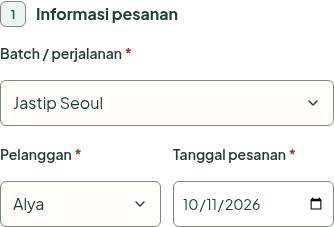
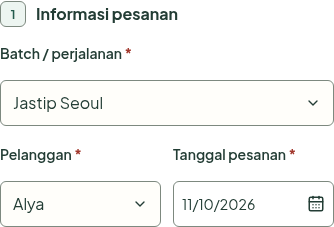
Add clear order placeholders and calendar-only date selection

Changed region(s): [[0.5389, 0.8634, 0.7784, 0.9559], [0.8982, 0.8634, 0.988, 0.9559]]

diff --git a/src/components/order-form.tsx b/src/components/order-form.tsx
@@ -1,6 +1,7 @@
 "use client";
 
 import { NumberInput } from "@/components/ui/number-input";
+import { DatePicker } from "@/components/ui/date-picker";
 import { OrderDiscountFields } from "@/components/order-discount-fields";
 
 import { useEffect, useMemo, useRef, useState } from "react";
@@ -258,7 +259,7 @@ export function OrderForm({ data, order, defaultBatchId, onSave, onClose, saveEr
       <label className="field-label" htmlFor={id}>{label}{["product", "quantity", "unitPrice"].includes(name) && <span className="required-mark" aria-hidden="true"> *</span>}</label>
       <div style={{ position: "relative" }}>
         {isAmount && <span aria-hidden="true" style={{ position: "absolute", left: 12, top: "50%", transform: "translateY(-50%)", color: "var(--muted)", fontSize: 13 }}>Rp</span>}
-        {numeric ? <NumberInput aria-label={label} required={["product", "quantity", "unitPrice"].includes(name)} id={id} name={`item-${item.id}-${name}`} className="input" inputMode={numeric ? "numeric" : undefined} min={numeric ? name === "quantity" ? "1" : "0" : undefined} step={numeric ? "1" : undefined} maxLength={!numeric ? itemTextLimits[name as keyof typeof itemTextLimits] : undefined} style={isAmount ? { paddingLeft: 37 } : undefined} value={item[name]} placeholder={name === "unitCost" ? "Belum diketahui" : "0"} onValueChange={(value) => updateItem(item.id, name, value)} aria-invalid={Boolean(error)} aria-describedby={error ? `${id}-error` : hint ? `${id}-hint` : undefined} /> : <input aria-label={label} required={["product", "quantity", "unitPrice"].includes(name)} id={id} name={`item-${item.id}-${name}`} className="input" ref={index === 0 && name === "product" ? productRef : undefined} type="text" inputMode={numeric ? "numeric" : undefined} min={numeric ? name === "quantity" ? "1" : "0" : undefined} step={numeric ? "1" : undefined} maxLength={!numeric ? itemTextLimits[name as keyof typeof itemTextLimits] : undefined} style={isAmount ? { paddingLeft: 37 } : undefined} value={item[name]} placeholder={name === "product" ? "Contoh: Airism Oversized / Nasi ayam"  : name === "variant" ? "Contoh: original / pedas" : name === "color" ? "Contoh: navy" : name === "size" ? "Contoh: M / porsi besar" : "0"} onChange={(event) => updateItem(item.id, name, event.target.value)} aria-invalid={Boolean(error)} aria-describedby={error ? `${id}-error` : hint ? `${id}-hint` : undefined} />}
+        {numeric ? <NumberInput aria-label={label} required={["product", "quantity", "unitPrice"].includes(name)} id={id} name={`item-${item.id}-${name}`} className="input" inputMode={numeric ? "numeric" : undefined} min={numeric ? name === "quantity" ? "1" : "0" : undefined} step={numeric ? "1" : undefined} maxLength={!numeric ? itemTextLimits[name as keyof typeof itemTextLimits] : undefined} style={isAmount ? { paddingLeft: 37 } : undefined} value={item[name]} placeholder={name === "quantity" ? "Contoh: 2" : name === "unitCost" ? "Belum diketahui" : "0"} onValueChange={(value) => updateItem(item.id, name, value)} aria-invalid={Boolean(error)} aria-describedby={error ? `${id}-error` : hint ? `${id}-hint` : undefined} /> : <input aria-label={label} required={["product", "quantity", "unitPrice"].includes(name)} id={id} name={`item-${item.id}-${name}`} className="input" ref={index === 0 && name === "product" ? productRef : undefined} type="text" inputMode={numeric ? "numeric" : undefined} min={numeric ? name === "quantity" ? "1" : "0" : undefined} step={numeric ? "1" : undefined} maxLength={!numeric ? itemTextLimits[name as keyof typeof itemTextLimits] : undefined} style={isAmount ? { paddingLeft: 37 } : undefined} value={item[name]} placeholder={name === "product" ? "Contoh: Airism Oversized / Nasi ayam"  : name === "variant" ? "Contoh: original / pedas" : name === "color" ? "Contoh: navy" : name === "size" ? "Contoh: M / porsi besar" : "0"} onChange={(event) => updateItem(item.id, name, event.target.value)} aria-invalid={Boolean(error)} aria-describedby={error ? `${id}-error` : hint ? `${id}-hint` : undefined} />}
       </div>
       {error ? <span className="error-message" id={`${id}-error`}>{error}</span> : hint ? <span className="field-hint" id={`${id}-hint`}>{hint}</span> : null}
     </div>;
@@ -289,11 +290,11 @@ export function OrderForm({ data, order, defaultBatchId, onSave, onClose, saveEr
               </Select>
               {errors.customerId && <span id="error-customerId" className="error-message">{errors.customerId}</span>}
             </div>
-              <div className="field"><label className="field-label" htmlFor="order-date">Tanggal pesanan<span className="required-mark" aria-hidden="true"> *</span></label><input aria-label="Tanggal pesanan" required id="order-date" name="date" className="input" type="date" value={fields.date} onChange={(event) => update("date", event.target.value)} aria-invalid={Boolean(errors.date)} aria-describedby={errors.date ? "error-date" : undefined} />{errors.date && <span id="error-date" className="error-message">{errors.date}</span>}</div>
+              <div className="field"><label className="field-label" htmlFor="order-date">Tanggal pesanan<span className="required-mark" aria-hidden="true"> *</span></label><DatePicker aria-label="Tanggal pesanan" required id="order-date" name="date" value={fields.date} onValueChange={value => update("date", value)} aria-invalid={Boolean(errors.date)} aria-describedby={errors.date ? "error-date" : undefined} />{errors.date && <span id="error-date" className="error-message">{errors.date}</span>}</div>
             {fields.customerId === "new" && <>
               <div className="field"><label className="field-label" htmlFor="order-customerName">Nama pelanggan<span className="required-mark" aria-hidden="true"> *</span></label><input aria-label="Nama pelanggan" required id="order-customerName" name="customerName" className="input" maxLength={textLimits.customerName} value={fields.customerName} placeholder="Contoh: Alya Putri" autoComplete="name" onChange={(event) => update("customerName", event.target.value)} aria-invalid={Boolean(errors.customerName)} aria-describedby={errors.customerName ? "error-customerName" : undefined} />{errors.customerName && <span id="error-customerName" className="error-message">{errors.customerName}</span>}</div>
               <div className="field"><label className="field-label" htmlFor="order-customerPhone">WhatsApp <span className="muted">(opsional)</span></label><input id="order-customerPhone" name="customerPhone" className="input" type="tel" maxLength={textLimits.customerPhone} value={fields.customerPhone} placeholder="08xxxxxxxxxx" autoComplete="tel" onChange={(event) => update("customerPhone", event.target.value)} aria-invalid={Boolean(errors.customerPhone)} aria-describedby={errors.customerPhone ? "error-customerPhone" : undefined} />{errors.customerPhone && <span id="error-customerPhone" className="error-message">{errors.customerPhone}</span>}</div>
-              <div className="field"><label className="field-label" htmlFor="order-customerAddress">Alamat (opsional)</label><textarea id="order-customerAddress" name="customerAddress" className="input" rows={3} maxLength={textLimits.customerAddress} autoComplete="street-address" value={fields.customerAddress} onChange={(event) => update("customerAddress", event.target.value)} /></div>
+              <div className="field"><label className="field-label" htmlFor="order-customerAddress">Alamat (opsional)</label><textarea id="order-customerAddress" name="customerAddress" className="input" rows={3} placeholder="Alamat lengkap pelanggan" maxLength={textLimits.customerAddress} autoComplete="street-address" value={fields.customerAddress} onChange={(event) => update("customerAddress", event.target.value)} /></div>
             </>}
           </div></section>
           <div className="form-section order-section">

diff --git a/src/components/po-order-form.tsx b/src/components/po-order-form.tsx
@@ -1,6 +1,7 @@
 "use client";
 
 import { NumberInput } from "@/components/ui/number-input";
+import { DatePicker } from "@/components/ui/date-picker";
 import { OrderDiscountFields } from "@/components/order-discount-fields";
 
 import { useEffect, useMemo, useRef, useState } from "react";
@@ -265,11 +266,11 @@ export function PoOrderForm({ data, order, onSave, onClose, saveError, saving }:
               </Select>
               {errors.customerId && <span id="po-error-customerId" className="error-message">{errors.customerId}</span>}
             </div>
-            <div className="field"><label className="field-label" htmlFor="po-order-date">Tanggal pesanan<span className="required-mark" aria-hidden="true"> *</span></label><input aria-label="Tanggal pesanan" required id="po-order-date" name="date" className="input" type="date" value={fields.date} onChange={(event) => update("date", event.target.value)} aria-invalid={Boolean(errors.date)} aria-describedby={errors.date ? "po-error-date" : undefined} />{errors.date && <span id="po-error-date" className="error-message">{errors.date}</span>}</div>
+            <div className="field"><label className="field-label" htmlFor="po-order-date">Tanggal pesanan<span className="required-mark" aria-hidden="true"> *</span></label><DatePicker aria-label="Tanggal pesanan" required id="po-order-date" name="date" value={fields.date} onValueChange={value => update("date", value)} aria-invalid={Boolean(errors.date)} aria-describedby={errors.date ? "po-error-date" : undefined} />{errors.date && <span id="po-error-date" className="error-message">{errors.date}</span>}</div>
             {fields.customerId === "new" && <>
               <div className="field"><label className="field-label" htmlFor="po-order-customerName">Nama pelanggan<span className="required-mark" aria-hidden="true"> *</span></label><input aria-label="Nama pelanggan" required id="po-order-customerName" name="customerName" className="input" value={fields.customerName} maxLength={textLimits.customerName} autoComplete="name" placeholder="Contoh: Alya Putri" onChange={(event) => update("customerName", event.target.value)} aria-invalid={Boolean(errors.customerName)} aria-describedby={errors.customerName ? "po-error-customerName" : undefined} />{errors.customerName && <span id="po-error-customerName" className="error-message">{errors.customerName}</span>}</div>
               <div className="field"><label className="field-label" htmlFor="po-order-customerPhone">WhatsApp <span>(opsional)</span></label><input id="po-order-customerPhone" name="customerPhone" className="input" type="tel" value={fields.customerPhone} maxLength={textLimits.customerPhone} autoComplete="tel" placeholder="08xxxxxxxxxx" onChange={(event) => update("customerPhone", event.target.value)} aria-invalid={Boolean(errors.customerPhone)} aria-describedby={errors.customerPhone ? "po-error-customerPhone" : undefined} />{errors.customerPhone && <span id="po-error-customerPhone" className="error-message">{errors.customerPhone}</span>}</div>
-              <div className="field"><label className="field-label" htmlFor="po-order-customerAddress">Alamat (opsional)</label><textarea id="po-order-customerAddress" name="customerAddress" className="input" rows={3} maxLength={textLimits.customerAddress} autoComplete="street-address" value={fields.customerAddress} onChange={(event) => update("customerAddress", event.target.value)} /></div>
+              <div className="field"><label className="field-label" htmlFor="po-order-customerAddress">Alamat (opsional)</label><textarea id="po-order-customerAddress" name="customerAddress" className="input" rows={3} placeholder="Alamat lengkap pelanggan" maxLength={textLimits.customerAddress} autoComplete="street-address" value={fields.customerAddress} onChange={(event) => update("customerAddress", event.target.value)} /></div>
             </>}
           </div></section>
           <div className="form-section order-section">
@@ -302,7 +303,7 @@ export function PoOrderForm({ data, order, onSave, onClose, saveError, saving }:
                   </div>
                   <div className="field">
                     <label className="field-label" htmlFor={quantityId}>Jumlah barang<span className="required-mark" aria-hidden="true"> *</span></label>
-                    <NumberInput aria-label="Jumlah barang" required id={quantityId} name={`item-${item.id}-quantity`} className="input" inputMode="numeric" min="1" step="1" value={item.quantity} onValueChange={(value) => updateItem(item.id, "quantity", value)} aria-invalid={Boolean(rowErrors?.quantity)} aria-describedby={rowErrors?.quantity ? `${quantityId}-error` : undefined} />
+                    <NumberInput aria-label="Jumlah barang" required id={quantityId} name={`item-${item.id}-quantity`} className="input" inputMode="numeric" min="1" step="1" placeholder="Contoh: 2" value={item.quantity} onValueChange={(value) => updateItem(item.id, "quantity", value)} aria-invalid={Boolean(rowErrors?.quantity)} aria-describedby={rowErrors?.quantity ? `${quantityId}-error` : undefined} />
                     {rowErrors?.quantity && <span id={`${quantityId}-error`} className="error-message">{rowErrors.quantity}</span>}
                   </div>
                     <dl id={pricesId} className="po-product-prices order-full-width" style={{ display: "grid", gridTemplateColumns: "repeat(2, minmax(0, 1fr))", gap: 12, padding: "10px 12px", borderRadius: 6 }}>

diff --git a/tests/website.spec.ts b/tests/website.spec.ts
@@ -644,6 +644,29 @@ for (const [business,width] of [["Jastip",1440],["Open PO",1440],["Jastip",390],
   await page.setViewportSize({width,height:1000}); await page.goto("/app"); await openBusiness(page,business); await openSection(page,"Pesanan");
   await page.getByRole("button",{name:business==="Jastip"?"Pesanan jastip baru":"Pesanan PO baru",exact:true}).click();
   let form=page.getByRole("dialog",{name:business==="Jastip"?"Pesanan jastip baru":"Pesanan PO baru",exact:true});
+  const date=form.locator('input[type="date"]');
+  await date.fill(""); await expect(form.locator('.date-picker-display')).toHaveText("Pilih tanggal");
+  if(width===1440) {
+    await date.click({position:{x:8,y:20}});
+    await page.keyboard.press("Escape");
+    await expect(form).toBeVisible();
+  }
+  await date.evaluate(element=>{Object.defineProperty(element,"showPicker",{value:()=>{element.setAttribute("data-picker-calls",String(Number(element.getAttribute("data-picker-calls")??0)+1));}});});
+  await date.click({position:{x:8,y:20}}); await expect(date).toHaveAttribute("data-picker-calls","1");
+  await date.press("Enter"); await expect(date).toHaveAttribute("data-picker-calls","2");
+  await date.press("Backspace"); await page.keyboard.type("20261011"); await expect(date).toHaveValue("");
+  await date.fill("2026-10-11"); await expect(form.locator('.date-picker-display')).toHaveText("11/10/2026");
+  await chooseOption(form.getByLabel("Pelanggan",{exact:true}),"new");
+  await expect(form.getByLabel("Alamat (opsional)",{exact:true})).toHaveAttribute("placeholder","Alamat lengkap pelanggan");
+  await expect(form.getByLabel("Jumlah barang",{exact:true})).toHaveAttribute("placeholder","Contoh: 2");
+  if(width<600) {
+    await date.fill("");
+    const placeholderFits=await form.locator('.date-picker-display > span').evaluate(element=>element.scrollWidth<=element.clientWidth+1);
+    expect(placeholderFits).toBe(true);
+    await form.locator('.order-context').screenshot({path:`docs/preview-mobile-placeholders-${business==="Jastip"?"jastip":"po"}-${width}.png`});
+    await date.fill("2026-10-11");
+  }
+  await chooseOption(form.getByLabel("Pelanggan",{exact:true}),"aly");
   if(business==="Jastip") {
     await form.getByLabel("Nama barang",{exact:true}).fill("Roti Diskon");
     await form.getByLabel("Harga jual / barang",{exact:true}).fill("25000");

diff --git a/src/app/globals.css b/src/app/globals.css
@@ -333,6 +333,15 @@ svg { flex-shrink: 0; }
 .native-dialog { border: none; border-radius: 14px; padding: 0; margin: auto; width: min(520px, calc(100vw - 32px)); max-height: calc(100dvh - 40px); box-shadow: 0 24px 75px var(--tone-line-17352824); color: var(--ink); }
 .native-dialog::backdrop { background: var(--tone-surface-18312880); }
 .native-dialog,.modal { overscroll-behavior:contain; -webkit-overflow-scrolling:touch; }
+.date-picker { position:relative; min-width:0; width:100%; }
+.date-picker-display { display:flex; align-items:center; justify-content:space-between; gap:8px; }
+.date-picker-display > span { min-width:0; overflow:hidden; white-space:nowrap; text-overflow:ellipsis; }
+.date-picker-display svg { flex-shrink:0; }
+.date-picker-empty { color:var(--muted); }
+.date-picker .date-picker-input { position:absolute; inset:0; opacity:0; cursor:pointer; width:100%; min-width:0; }
+.date-picker:focus-within .date-picker-display { outline:2px solid var(--primary); outline-offset:2px; }
+.date-picker-input::-webkit-calendar-picker-indicator { position:absolute; inset:0; width:100%; height:100%; margin:0; opacity:0; cursor:pointer; }
+@media(max-width:600px) { .order-dialog .date-picker .date-picker-display { padding-inline:8px; font-size:14px; gap:4px; } }
 .modal-header { display: flex; align-items: center; justify-content: space-between; gap: 16px; padding: 24px 26px 20px; border-bottom: 1px solid var(--border); }
 .modal-header h2 { font-size: 22px; letter-spacing: -.6px; }
 .modal-header p { font-size: 14px; line-height: 1.7; color: var(--muted); margin-top: 7px; }

diff --git a/src/components/ui/date-picker.tsx b/src/components/ui/date-picker.tsx
@@ -1,0 +1,24 @@
+"use client";
+
+import type { ComponentProps } from "react";
+import { CalendarDays } from "lucide-react";
+
+type Props = Omit<ComponentProps<"input">, "type" | "value" | "onChange" | "readOnly"> & { value: string; onValueChange: (value: string) => void };
+
+export function DatePicker({ value, onValueChange, className = "", placeholder = "Pilih tanggal", ...props }: Props) {
+  function open(input: HTMLInputElement) {
+    if (typeof input.showPicker !== "function") return false;
+    try { input.showPicker(); return true; } catch { return false; }
+  }
+  return <div className="date-picker">
+    <span className={`input date-picker-display ${!value ? "date-picker-empty" : ""}`} aria-hidden="true"><span>{value ? value.split("-").reverse().join("/") : placeholder}</span><CalendarDays size={18} /></span>
+    <input {...props} className={`input date-picker-input ${className}`} type="date" inputMode="none" value={value} placeholder={placeholder}
+      onChange={event => onValueChange(event.target.value)} onClick={event => { if (open(event.currentTarget)) event.preventDefault(); }}
+      onKeyDown={event => {
+        if (event.key === "Tab" || event.key === "Escape") return;
+        if (["Enter", " ", "ArrowDown"].includes(event.key)) { if (open(event.currentTarget)) event.preventDefault(); }
+        else event.preventDefault();
+      }}
+      onPaste={event => event.preventDefault()} onDrop={event => event.preventDefault()} />
+  </div>;
+}

diff --git a/docs/MOBILE-ORDER-FORM.md b/docs/MOBILE-ORDER-FORM.md
@@ -1,5 +1,11 @@
 # Form pesanan ponsel
 
+## Placeholder dan kalender
+
+Tanggal kosong menampilkan “Pilih tanggal”, alamat pelanggan baru “Alamat lengkap pelanggan”, dan jumlah barang “Contoh: 2”. Placeholder berlaku saat kolom kosong; nilai pesanan/default yang ada tetap ditampilkan. Kedua form memakai DatePicker dengan tampilan tanggal Indonesia dan input date native yang menutupi seluruh area kontrol. Klik area mana pun membuka showPicker; indikator native full-area menjadi fallback. Enter/Space/ArrowDown membuka kalender, sementara pengetikan manual, paste dan drop diblokir. Fokus tetap terlihat. Pemilihan tanggal memakai event change native dan menyimpan YYYY-MM-DD seperti sebelumnya.
+
+Lint dan build berhasil. Lima tes browser form Jastip/PO pada desktop dan 320/390px lulus. Tes desktop memeriksa popup kalender native saat klik sisi kiri dan menutupnya dengan Escape tanpa menutup form. Tes instrumentasi API memeriksa klik, Enter, pemblokiran pengetikan, perubahan nilai serta placeholder alamat/jumlah. Pada ponsel, placeholder tanggal tidak terpotong dan field tidak overflow. Screenshot PO 320px ditinjau visual; penyesuaian spesifisitas CSS memperbaiki ukuran placeholder awal yang terpotong. Pengujian perangkat iOS fisik belum dilakukan.
+
 Pada lebar hingga 600px, field Sudah dibayar memakai satu kolom penuh. Tombol Lunas dan Bayar sebagian bertumpuk di bawahnya, masing-masing full width. Input tanggal tetap sejajar pelanggan, dengan min-width 0, batas lebar dan padding/font lebih ringkas untuk mencegah kontrol tanggal melebar. Ringkasan form memakai satu kolom dan estimasi HPP ditempatkan sebelum total tagihan. Layout desktop dipertahankan.
 
 Validasi: lint dan production build berhasil. Lima skenario browser diskon/form berhasil: Jastip dan PO desktop, Jastip 390px, PO 390px dan PO 320px. Pada ponsel tes memeriksa lebar pembayaran/tombol, posisi tombol di bawah field, batas input tanggal, urutan visual HPP sebelum total, dan tidak ada overflow horizontal. Alur simpan, reload, edit, pembatasan diskon dan pembayaran juga lulus. Screenshot pembayaran dan konteks tanggal PO 320px ditinjau visual. Pengujian memakai Chromium dan mock Supabase; perangkat iOS fisik dan deployment Vercel belum diverifikasi.
